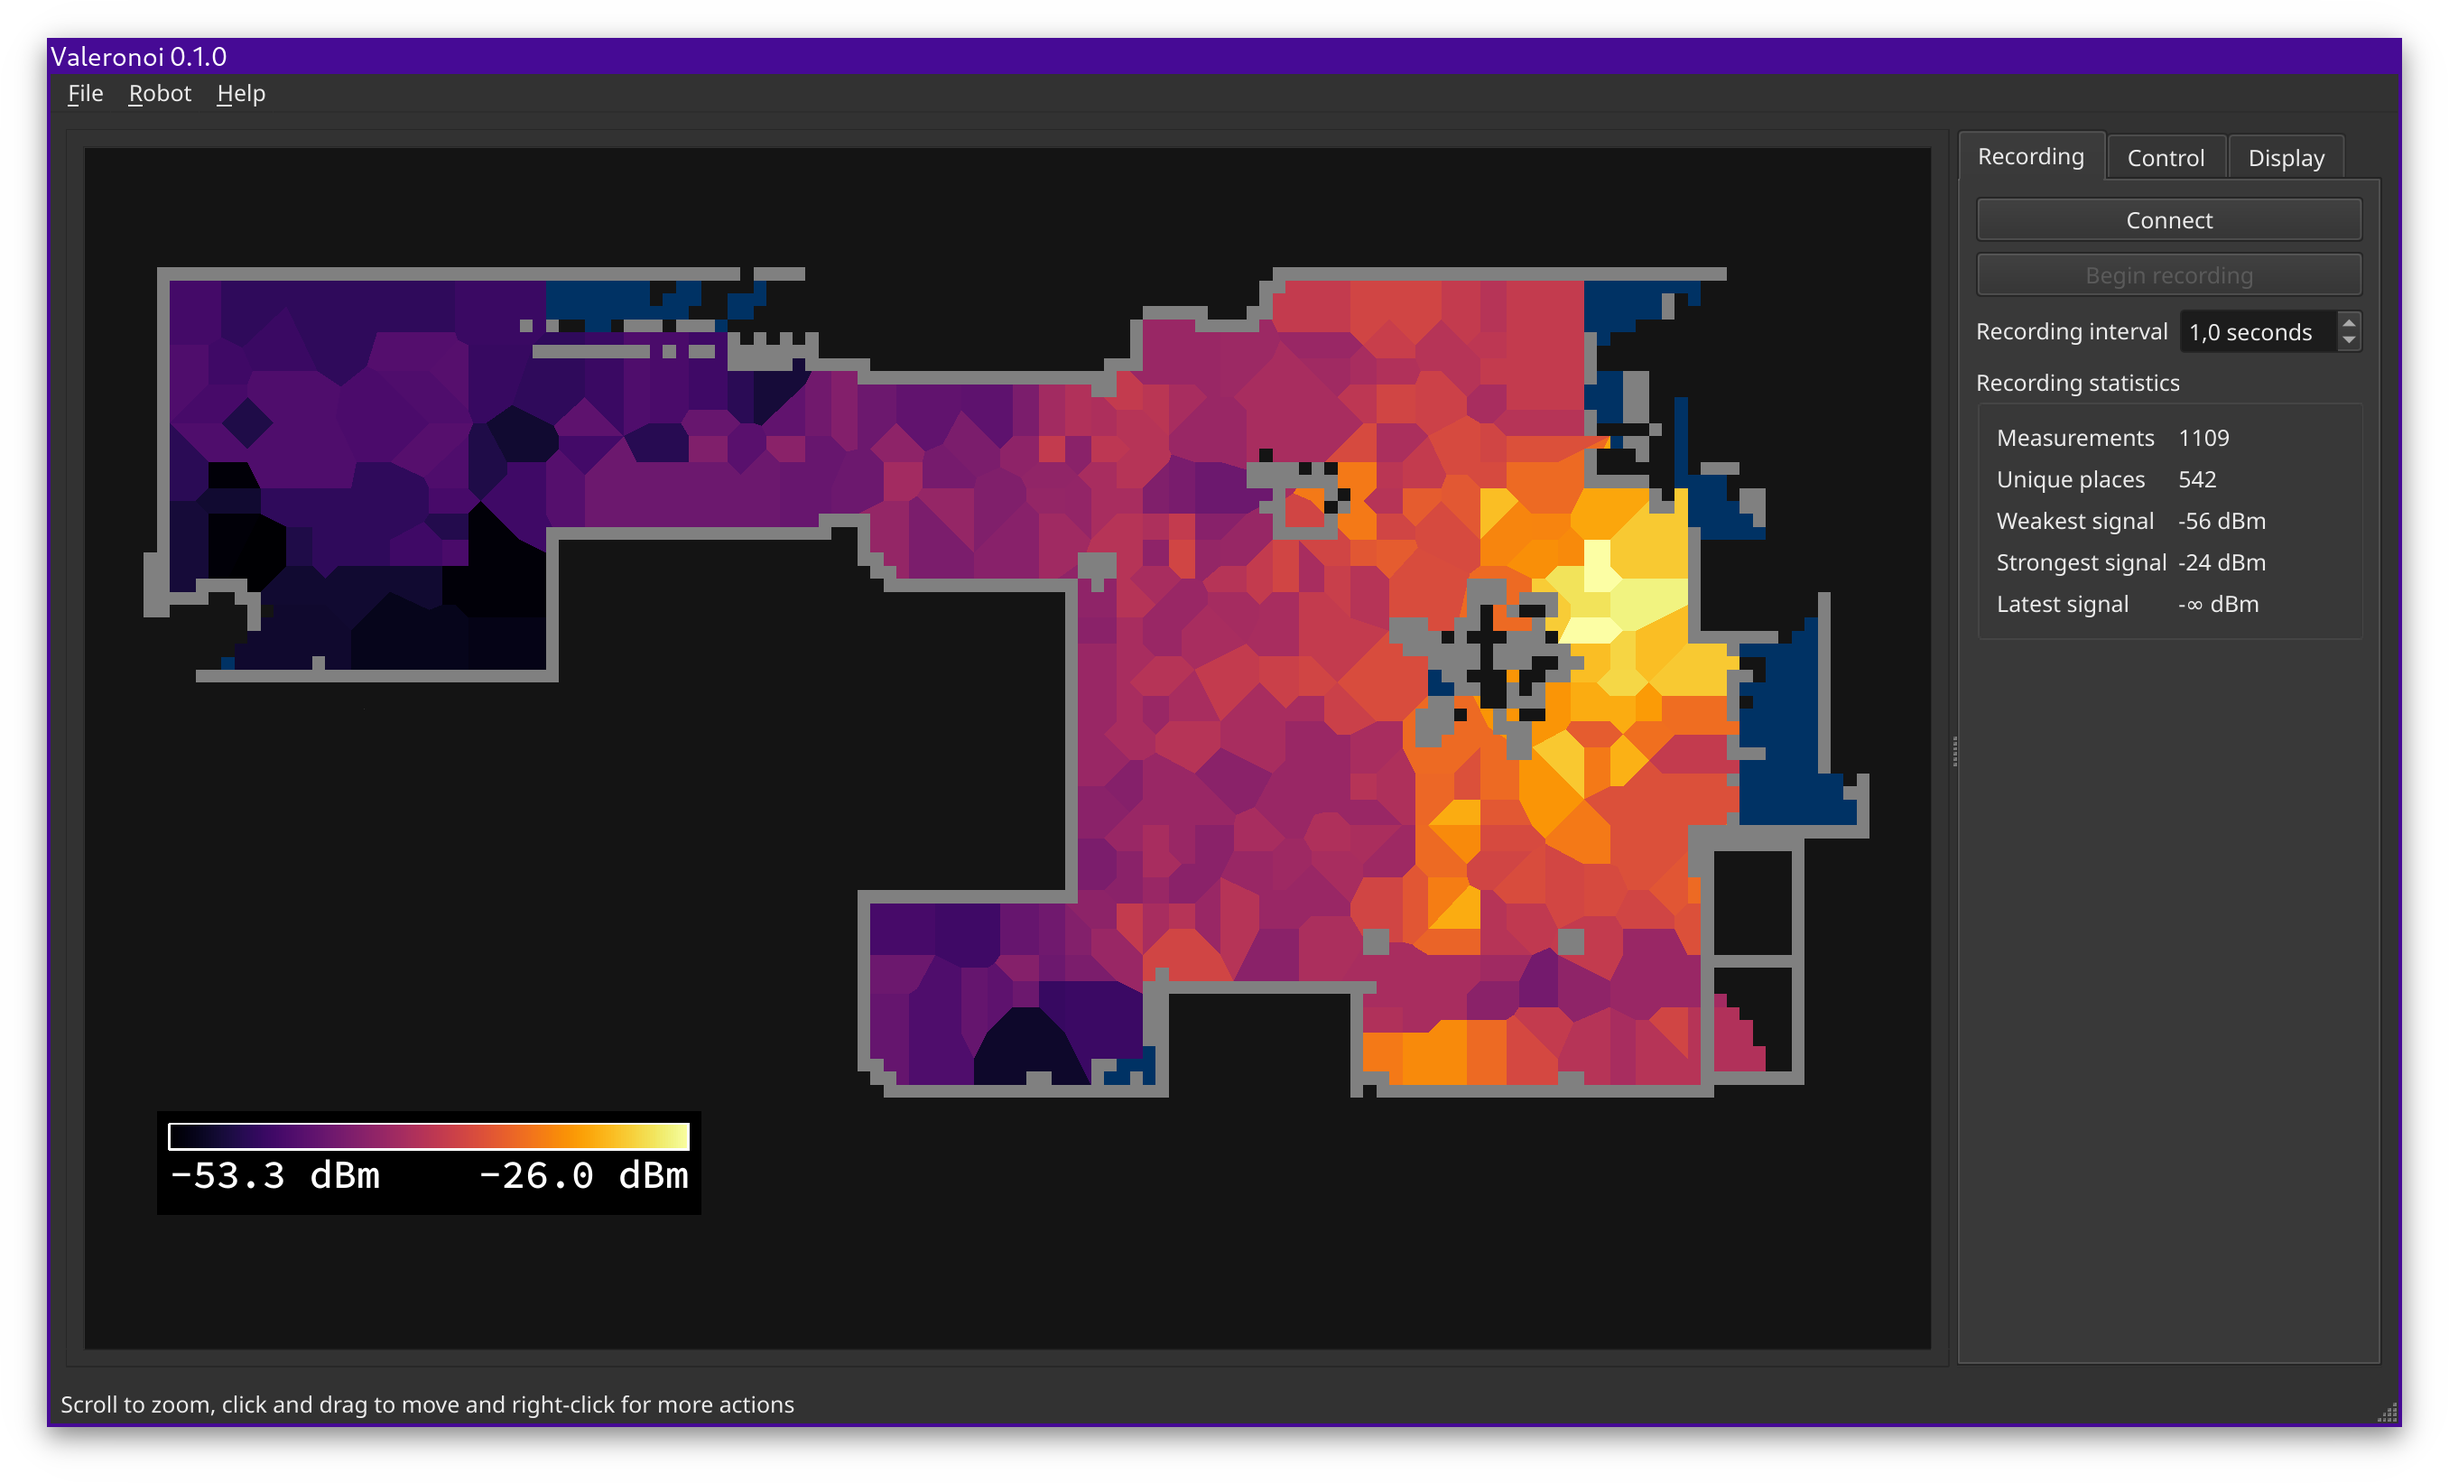
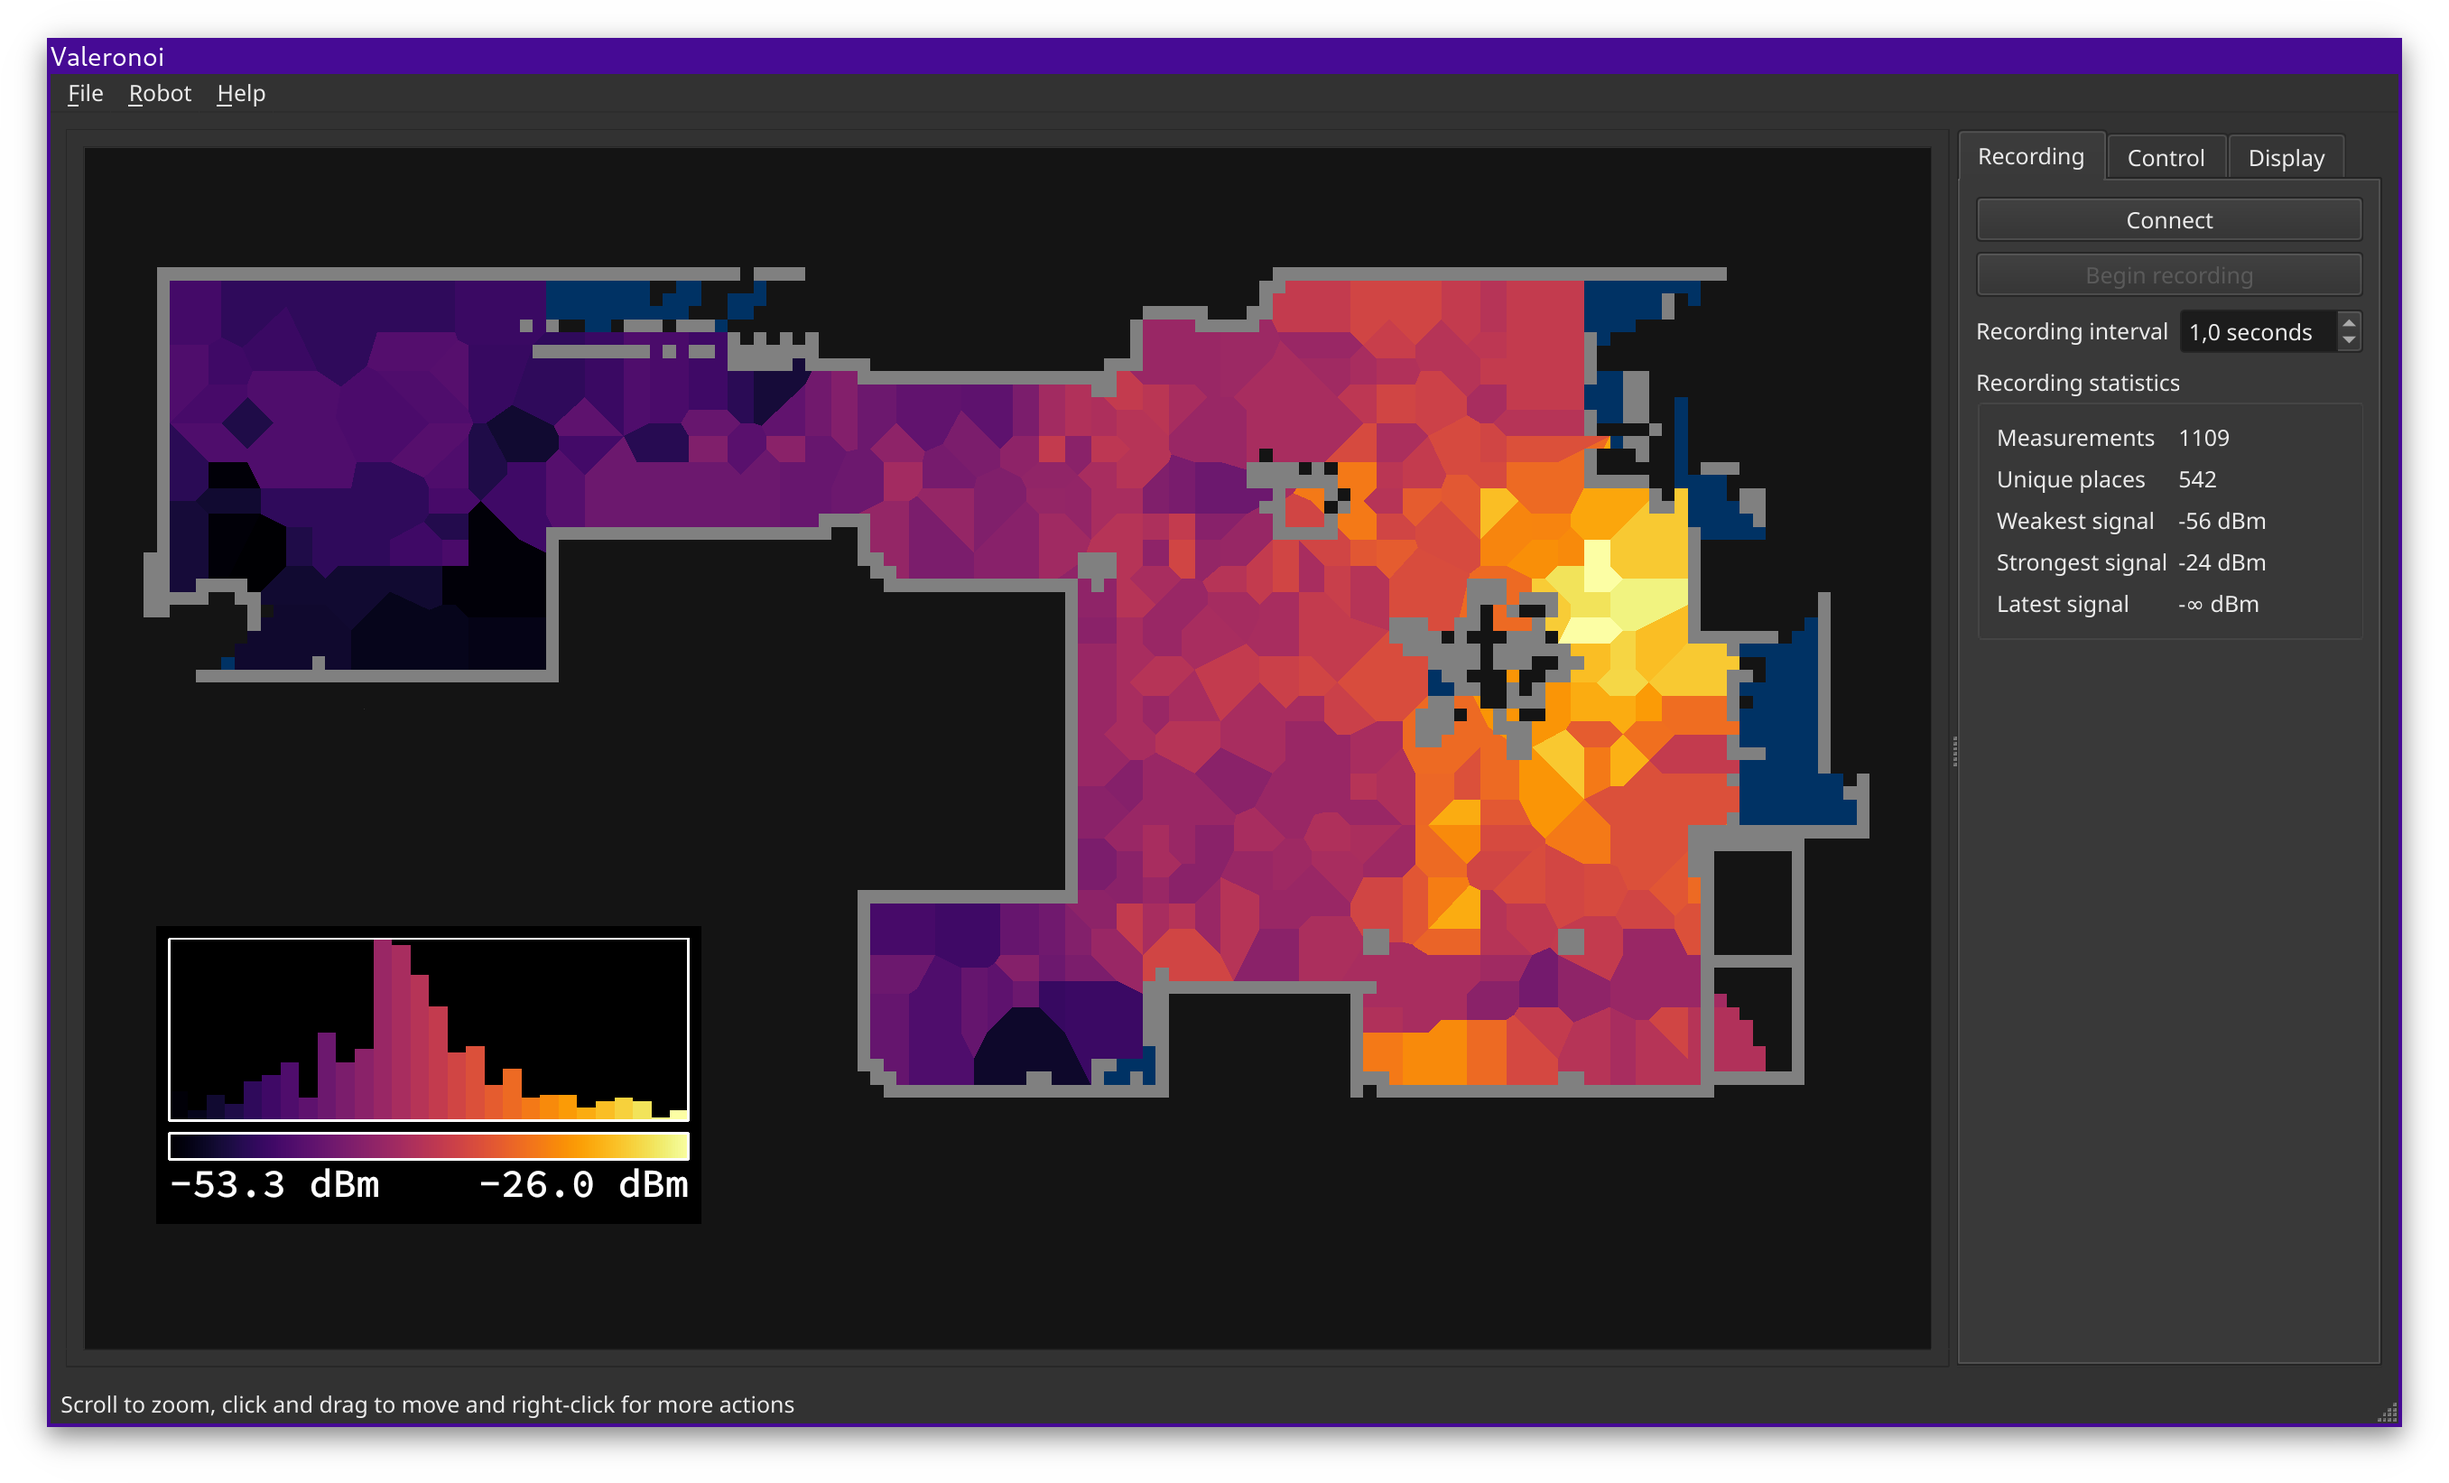
feat: add histogram

Changed region(s): [[0.0619, 0.6208, 0.2787, 0.8071], [0.0619, 0.031, 0.0929, 0.0621]]

diff --git a/src/gui/graphics_item/measurement_item.cpp b/src/gui/graphics_item/measurement_item.cpp
@@ -18,15 +18,21 @@
 #include "measurement_item.h"
 
 #include <QPen>
+#include <algorithm>
 
-constexpr const QSize SCALE_SIZE{200, 30};
+constexpr const int SCALE_FONT_SIZE{15};
+constexpr const int SCALE_HISTOGRAM_HEIGHT{70};
+constexpr const int SCALE_BAR_HEIGHT{30};
+constexpr const int SCALE_WIDTH{200};
 constexpr const int SCALE_MARGIN{5};
+constexpr const QSize SCALE_SIZE{
+    SCALE_WIDTH, SCALE_BAR_HEIGHT + SCALE_MARGIN + SCALE_HISTOGRAM_HEIGHT};
 
 namespace Valeronoi::gui::graphics_item {
 MeasurementItem::MeasurementItem(const Valeronoi::state::RobotMap &robot_map,
                                  QGraphicsItem *parent)
     : MapBasedItem(robot_map, parent), m_font("Source Code Pro") {
-  m_font.setPixelSize(SCALE_SIZE.height() / 2);
+  m_font.setPixelSize(SCALE_FONT_SIZE);
 }
 
 void MeasurementItem::paint(QPainter *painter,
@@ -105,9 +111,14 @@ void MeasurementItem::set_data_segments(const state::DataSegments &segments) {
   m_data_segments = segments;
   m_min = 0.0;
   m_max = -100.0;
+  m_histogram.clear();
+  m_histogram_max = 0;
   for (const auto &s : m_data_segments) {
     m_min = std::min(m_min, s.value);
     m_max = std::max(m_max, s.value);
+    const auto int_value = static_cast<int>(s.value);
+    m_histogram[int_value] += 1;
+    m_histogram_max = std::max(m_histogram_max, m_histogram[int_value]);
     m_points_path.addRect(s.x - 25, s.y - 25, 50, 50);
   }
   calculate_colors();
@@ -124,27 +135,58 @@ void MeasurementItem::calculate_colors() {
 
     painter.setBrush(Qt::black);
     painter.setPen(Qt::transparent);
-    painter.drawRect(0, 0, SCALE_SIZE.width() + 2 * SCALE_MARGIN,
+    painter.drawRect(0, 0, SCALE_WIDTH + 2 * SCALE_MARGIN,
                      SCALE_SIZE.height() + 2 * SCALE_MARGIN);
-    for (int x = 0; x < SCALE_SIZE.width(); x++) {
-      painter.setBrush(
-          color_value(static_cast<double>(x) / SCALE_SIZE.width()));
-      painter.drawRect(x + SCALE_MARGIN, SCALE_MARGIN, 1,
-                       SCALE_SIZE.height() / 3);
+
+    if (m_histogram_max > 0) {
+      painter.setPen(Qt::transparent);
+      const auto int_max = static_cast<int>(m_max);
+      const auto int_min = static_cast<int>(m_min);
+      const auto bar_width =
+          static_cast<double>(SCALE_WIDTH) / (int_max - int_min + 1);
+      std::for_each(
+          m_histogram.begin(), m_histogram.end(), [&](const auto values) {
+            const auto bin = values.first;
+            const auto count = values.second;
+            const auto height = SCALE_HISTOGRAM_HEIGHT *
+                                static_cast<double>(count) / m_histogram_max;
+            const auto x = SCALE_MARGIN + bar_width * (bin - int_min);
+            auto bin_rect =
+                QRectF(x, SCALE_MARGIN + SCALE_HISTOGRAM_HEIGHT - height,
+                       bar_width, height);
+            painter.setBrush(get_color(bin));
+            painter.drawRect(bin_rect);
+          });
+      painter.setBrush(Qt::transparent);
+      painter.setPen(QPen(Qt::white, 1));
+      painter.drawRect(SCALE_MARGIN, SCALE_MARGIN, SCALE_WIDTH,
+                       SCALE_HISTOGRAM_HEIGHT);
+    }
+
+    painter.setPen(Qt::transparent);
+
+    for (int x = 0; x < SCALE_WIDTH; x++) {
+      painter.setBrush(color_value(static_cast<double>(x) / SCALE_WIDTH));
+      painter.drawRect(x + SCALE_MARGIN,
+                       2 * SCALE_MARGIN + SCALE_HISTOGRAM_HEIGHT, 1,
+                       SCALE_BAR_HEIGHT / 3);
     }
     painter.setBrush(Qt::transparent);
     painter.setPen(QPen(Qt::white, 1));
-    painter.drawRect(SCALE_MARGIN, SCALE_MARGIN, SCALE_SIZE.width(),
-                     SCALE_SIZE.height() / 3);
-    painter.drawText(SCALE_MARGIN, SCALE_MARGIN + SCALE_SIZE.height() / 3,
-                     SCALE_SIZE.width() / 2, (SCALE_SIZE.height() / 3) * 2,
-                     Qt::AlignTop,
-                     QString::number(m_min, 'f', 1).append(" dBm"));
-    painter.drawText(SCALE_MARGIN + SCALE_SIZE.width() / 2,
-                     SCALE_MARGIN + SCALE_SIZE.height() / 3,
-                     SCALE_SIZE.width() / 2, (SCALE_SIZE.height() / 3) * 2,
-                     Qt::AlignTop | Qt::AlignRight,
-                     QString::number(m_max, 'f', 1).append(" dBm"));
+    painter.drawRect(SCALE_MARGIN, 2 * SCALE_MARGIN + SCALE_HISTOGRAM_HEIGHT,
+                     SCALE_WIDTH, SCALE_BAR_HEIGHT / 3);
+    painter.drawText(
+        SCALE_MARGIN,
+        2 * SCALE_MARGIN + SCALE_HISTOGRAM_HEIGHT + SCALE_BAR_HEIGHT / 3,
+        SCALE_WIDTH / 2, (SCALE_BAR_HEIGHT / 3) * 2, Qt::AlignTop,
+        QString::number(m_min, 'f', 1).append(" dBm"));
+    painter.drawText(
+        SCALE_MARGIN + SCALE_WIDTH / 2,
+        2 * SCALE_MARGIN + SCALE_HISTOGRAM_HEIGHT + SCALE_BAR_HEIGHT / 3,
+        SCALE_WIDTH / 2, (SCALE_BAR_HEIGHT / 3) * 2,
+        Qt::AlignTop | Qt::AlignRight,
+        QString::number(m_max, 'f', 1).append(" dBm"));
+
     painter.end();
   }
   update();
@@ -172,8 +214,8 @@ QRectF MeasurementItem::boundingRect() const {
   if (!m_robot_map.is_valid()) {
     return rect;
   }
-  if (rect.width() < SCALE_SIZE.width() + SCALE_MARGIN) {
-    rect += QMarginsF(0, 0, SCALE_SIZE.width() + SCALE_MARGIN, 0);
+  if (rect.width() < SCALE_WIDTH + SCALE_MARGIN) {
+    rect += QMarginsF(0, 0, SCALE_WIDTH + SCALE_MARGIN, 0);
   }
   return rect + QMarginsF(0, 0, 0, SCALE_SIZE.height() + 4 * SCALE_MARGIN);
 }

diff --git a/src/gui/graphics_item/measurement_item.h b/src/gui/graphics_item/measurement_item.h
@@ -20,6 +20,7 @@
 
 #include <QFont>
 #include <QPicture>
+#include <unordered_map>
 
 #include "../../state/measurements.h"
 #include "../../state/robot_map.h"
@@ -59,6 +60,8 @@ class MeasurementItem : public MapBasedItem {
   [[nodiscard]] QColor color_value(double normalized_value) const;
 
   double m_min{0.0}, m_max{0.0};
+  std::unordered_map<int, int> m_histogram;
+  int m_histogram_max;
 
   const Valeronoi::util::RGBColorMap *m_color_map{nullptr};
 

diff --git a/src/state/state.h b/src/state/state.h
@@ -87,7 +87,7 @@ enum class DISPLAY_MODE {
 
 struct DataSegment {
   int x{0}, y{0};
-  double value;
+  double value{0.0};
   QPolygon polygon;
   QColor color;
 };
